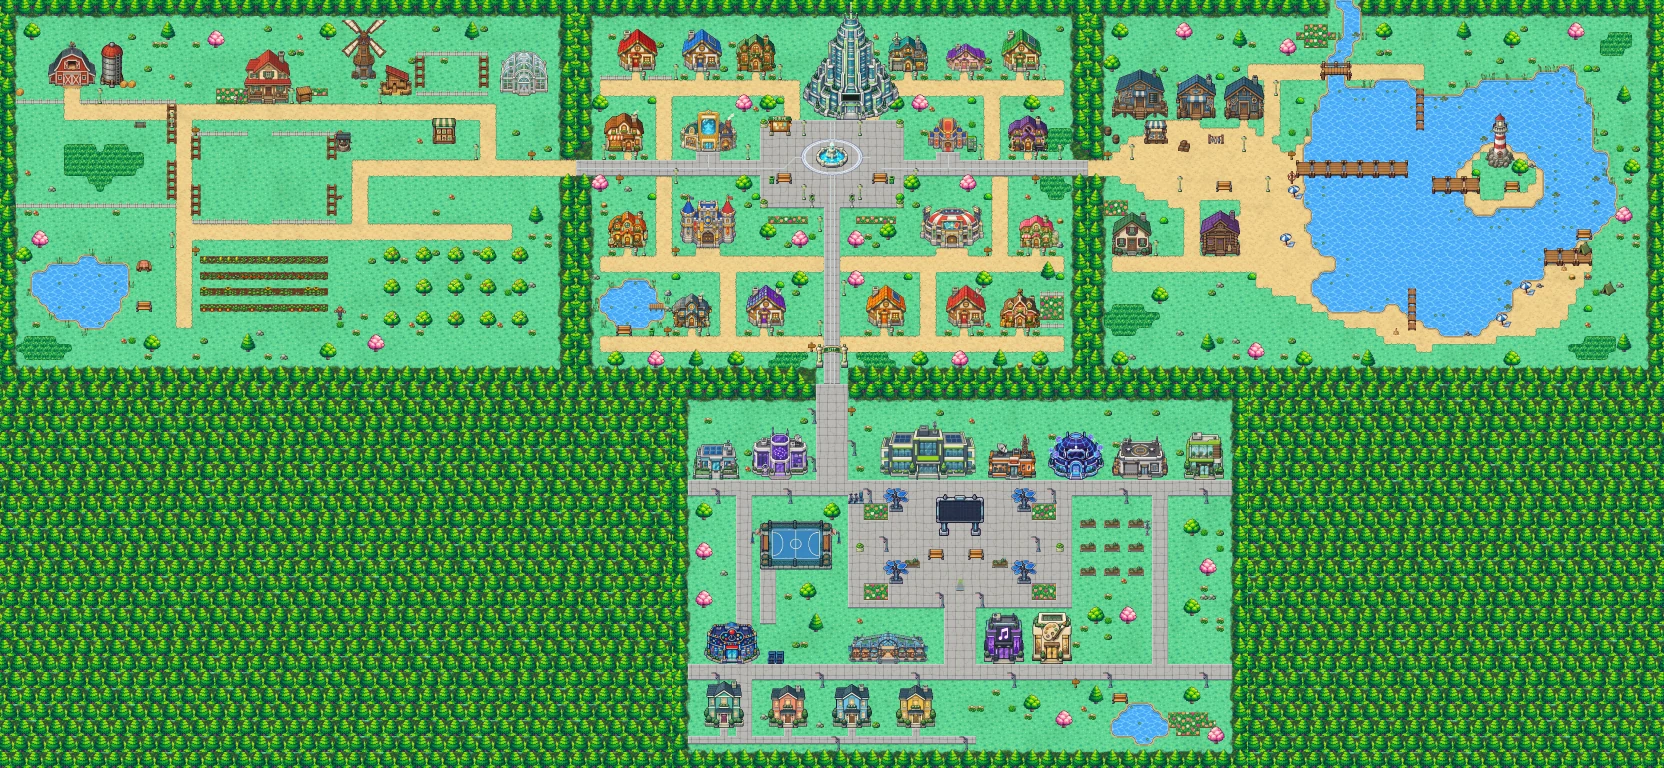
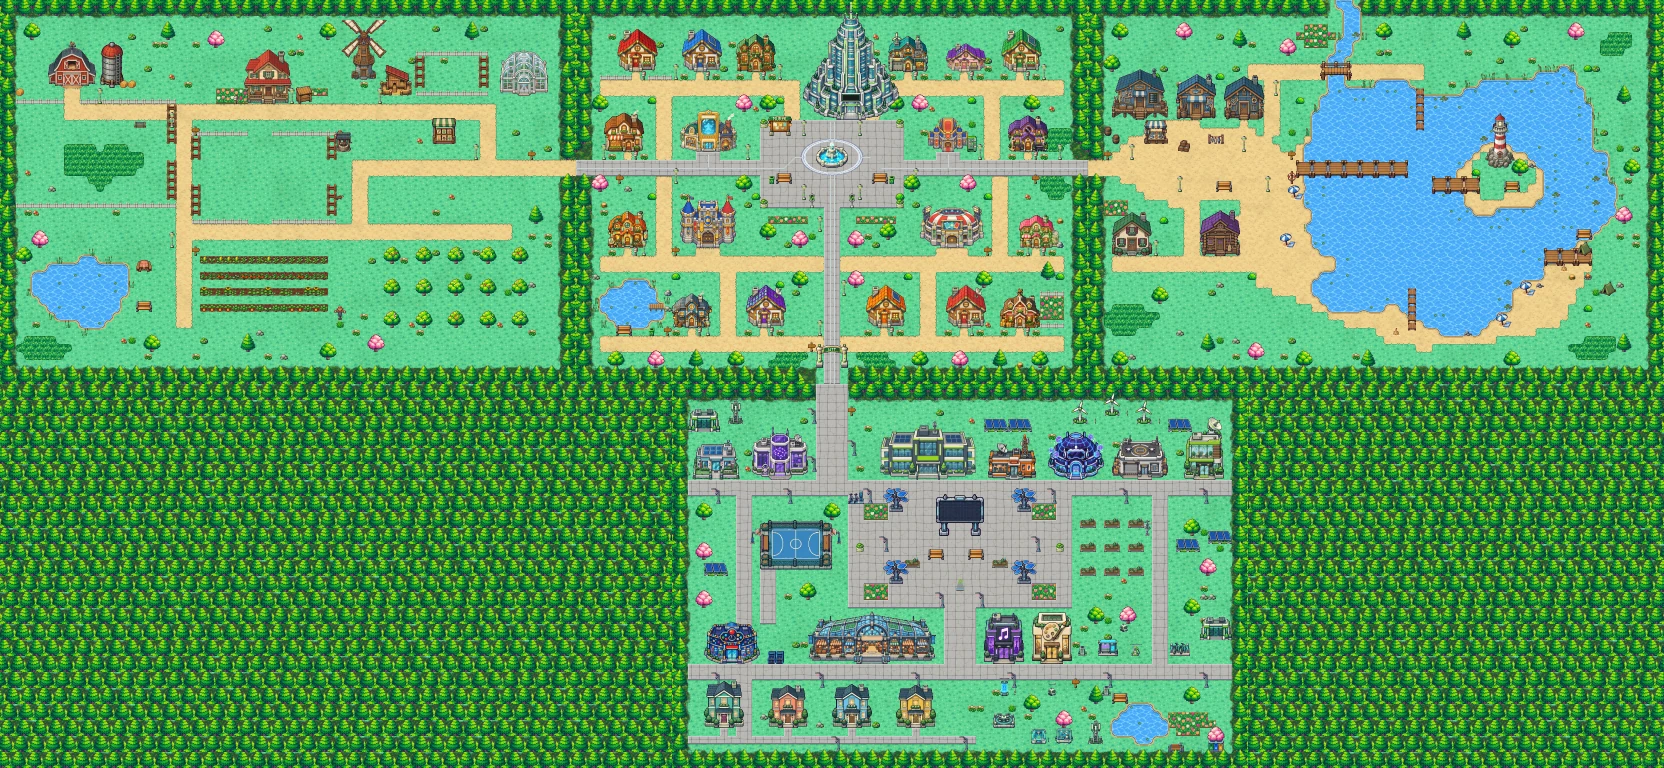
Cidade WIT: Mercado Central gigante e objetos tecnológicos do GPT pelo mapa
- Mercado com a arte do GPT ocupa 16 blocos (antes 10)
- wit-tech-3 importado (16 objetos, corte por grade): data center, antenas,
  turbinas, painéis solares, ponto de ônibus, bikes, base de drones, vitrines
- Campus atrás dos prédios, rua de baixo e parque tecnológico preenchidos;
  totem, ponto de ônibus e base de drones têm texto ao usar

Claude-Session: https://claude.ai/code/session_01LZMKHmQCZ8JMkWs3aTG8Vs

diff --git a/src/game/world/zone-wit.ts b/src/game/world/zone-wit.ts
@@ -109,7 +109,9 @@ export function buildWit(assets?: WorldAssets, opts: ZoneOptions = {}): Town {
   z.putLit('fliperama-1', z.sprLit('fliperama', () => arcade(hex('#e84a6a'))), 12, 34, 1, 1);
   z.putLit('fliperama-2', z.sprLit('fliperama', () => arcade(hex('#3a78c8'))), 13, 34, 1, 1);
   z.spot('fliperama', 12, 34); z.spot('fliperama', 13, 34);
-  z.building(z.sprB('mercado-central', 'mercado', 'Mercado Central', 10, 4, [4, 5], mercadoCentral), 22, 31);
+  // com a arte do GPT o Mercado é um galpão gigante (16 blocos); por código fica o de 10
+  if (A['mercado-central']) z.building(z.sprB('mercado-central', 'mercado', 'Mercado Central', 16, 4, [7, 8], mercadoCentral), 17, 31);
+  else z.building(mercadoCentral(), 22, 31);
   z.building(z.sprB('estudio-musica', 'estudio-musica', 'Estúdio de Música', 5, 3, [2], () => cottage('estudio-musica', 'Estúdio de Música', {
     wall: hex('#6a4a9a'), wallKind: 'planks', roof: hex('#2a2440'), trim: hex('#f4f0ea'), shutters: hex('#f0c040'),
     sign: { text: 'MUSICA', bg: hex('#2a1a40'), lit: [255, 140, 220] }, chimney: false, seed: 14,
@@ -129,11 +131,32 @@ export function buildWit(assets?: WorldAssets, opts: ZoneOptions = {}): Town {
   });
   z.fill('calcada', 2, 44, 36, 1);
   z.fill('calcada', 8, 37, 2, 7);
+  // ── tecnologia espalhada (só com a arte do GPT; sem ela o lugar fica com grama) ──
+  // campus atrás dos prédios, ponto de ônibus e bicicletas na rua de baixo, e o
+  // parque tecnológico com a base de drones e as vitrines de robótica
+  const free = (tx: number, ty: number, tw: number) => [...Array(tw).keys()].every(dx => !solid[ty]?.[tx + dx] && z.terrain[ty]?.[tx + dx] === 'grama');
+  const tech: [string, number, number, number, string[]?][] = [
+    ['data-center', 2, 5, 4], ['antena-5g', 7, 4, 2], ['paineis-solares', 39, 5, 3], ['paineis-solares', 42, 5, 3], ['turbina', 50, 4, 3],
+    ['turbina', 54, 3, 3], ['turbina', 58, 4, 3], ['antena-satelite', 66, 6, 3], ['paineis-solares', 62, 5, 3],
+    ['data-center', 66, 31, 4], ['paineis-solares', 63, 20, 3], ['paineis-solares', 67, 19, 3], ['paineis-solares', 4, 23, 3],
+    ['ponto-onibus', 53, 33, 3, ['PONTO DE ÔNIBUS', 'O painel mostra quanto falta para o ônibus chegar: ele manda a posição pela internet (IoT).']],
+    ['estacao-bike', 62, 33, 3], ['carregador-carro', 57, 33, 2], ['lixeira-smart', 51, 33, 1], ['robo-entrega', 56, 30, 1],
+    ['base-drone', 40, 42, 3, ['BASE DE DRONES', 'Os drones da Central de Entregas pousam aqui para trocar a bateria.']],
+    ['totem-info', 41, 38, 2, ['TOTEM DE INFORMAÇÕES', 'Parque Tecnológico da Cidade WIT: robótica, impressão 3D e drones.']],
+    ['impressora-3d', 45, 44, 2], ['braco-robo', 48, 44, 2], ['robo-entrega', 47, 38, 1], ['antena-5g', 52, 44, 2], ['banco-solar', 62, 45, 2],
+    ['reciclagem', 67, 45, 2], ['lixeira-smart', 54, 38, 1],
+  ];
+  for (const [name, tx, ty, tw, lines] of tech) {
+    if (!A[name] || !free(tx, ty, tw)) continue;
+    z.putLit(`${name}-${tx}-${ty}`, z.sprLit(name, () => ({ pix: A[name]!.pix })), tx, ty, tw, 1);
+    if (lines) for (let dx = 0; dx < tw; dx++) z.spot('placa', tx + dx, ty, { lines });
+  }
+
   // parque: árvores, banco na beira do laguinho, fliperama ao ar livre
   const groves: [import('./props').TreeKind, number, number][] = [
     ['redonda', 44, 39], ['florida', 48, 41], ['pinheiro', 52, 38], ['redonda', 64, 38], ['florida', 67, 43],
     ['redonda', 3, 15], ['florida', 3, 20], ['redonda', 64, 17], ['florida', 66, 22], ['redonda', 64, 27], ['florida', 3, 26],
-    ['florida', 12, 25], ['redonda', 16, 25], ['pinheiro', 17, 29], ['redonda', 52, 28], ['florida', 56, 28], ['redonda', 19, 15],
+    ['florida', 12, 25], ['redonda', 16, 25], ['redonda', 52, 28], ['florida', 56, 28], ['redonda', 19, 15],
   ];
   groves.forEach(([k, tx, ty], i) => {
     const ok = [0, 1].every(dy => [0, 1].every(dx => !solid[ty + dy]?.[tx + dx] && z.terrain[ty + dy]?.[tx + dx] === 'grama'));

diff --git a/scripts/arte/importar-gpt.py b/scripts/arte/importar-gpt.py
@@ -68,7 +68,7 @@ SINGLE.update({
     'estufa': ('estufa', {'w': 96}), 'moinho': ('moinho', {'h': 100}), 'moinho-pas': ('moinho-pas', {'w': 90}),
     'nucleo-wit': ('nucleo-wit', {'w': 192}), 'lab-ia': ('lab-ia', {'w': 112}), 'casa-iot': ('casa-iot', {'w': 96}),
     'metaverso': ('metaverso', {'w': 112}), 'estudio-comunicacao': ('estudio-comunicacao', {'w': 96}),
-    'oficina-games': ('oficina-games', {'w': 112}), 'mercado-central': ('mercado-central', {'w': 160}),
+    'oficina-games': ('oficina-games', {'w': 112}), 'mercado-central': ('mercado-central', {'w': 256}),
     'central-entregas': ('central-entregas', {'w': 112}),
 })
 FISH_IDS = ['lambari', 'tilapia', 'carpa', 'camarao', 'bagre', 'traira', 'piau', 'pacu', 'tucunare', 'dourado',
@@ -108,6 +108,10 @@ SHEETS = {
                     ('arvore-solar', {'h': 48}), ('poste-inteligente', {'h': 32}), ('semaforo', {'h': 32}), ('patinetes', {'w': 32}),
                     ('fliperama', {'h': 26}), ('totem-holo', {'h': 30}), ('banco-solar', {'w': 32}), ('reciclagem', {'w': 32})],
     'wit-objetos-2': [('quadra', {'w': 144}), ('cesta', {'h': 32}), ('canteiro-iot', {'w': 32}), ('estacao-tempo', {'h': 32})],
+    'wit-tech-3': [('data-center', {'w': 64}), ('antena-5g', {'h': 48}), ('turbina', {'h': 48}), ('paineis-solares', {'w': 48}),
+                   ('carregador-carro', {'h': 24}), ('robo-entrega', {'w': 16}), ('totem-info', {'h': 36}), ('ponte-luz', {'w': 32}),
+                   ('impressora-3d', {'w': 36}), ('ponto-onibus', {'w': 40}), ('base-drone', {'w': 44}), ('braco-robo', {'w': 36}),
+                   ('lixeira-smart', {'h': 20}), ('estacao-bike', {'w': 40}), ('estacao-tempo-2', {'h': 32}), ('antena-satelite', {'w': 40})],
     'robo-gari': [('robo-gari', {'h': 18}), ('lixo-lata', {'w': 7}), ('lixo-papel', {'w': 7}), ('lixo-garrafa', {'w': 7})],
     'casinhas-wit': [(n, {'w': 80}) for n in ['casa-coworking', 'estudio-musica', 'atelie', 'moradia-1', 'moradia-2', 'moradia-3', 'moradia-4']],
 }
@@ -198,7 +202,7 @@ def components(alpha, n):
 
 # folhas em grade com objetos muito perto (o agrupamento por vizinhança junta
 # a semente ao broto): corta a área desenhada em colunas x linhas iguais
-GRID = {'peixes': (4, 4), 'plantacoes': (5, 7)}
+GRID = {'peixes': (4, 4), 'plantacoes': (5, 7), 'wit-tech-3': (4, 4)}
 
 
 def grid_boxes(alpha, cols, rows):
